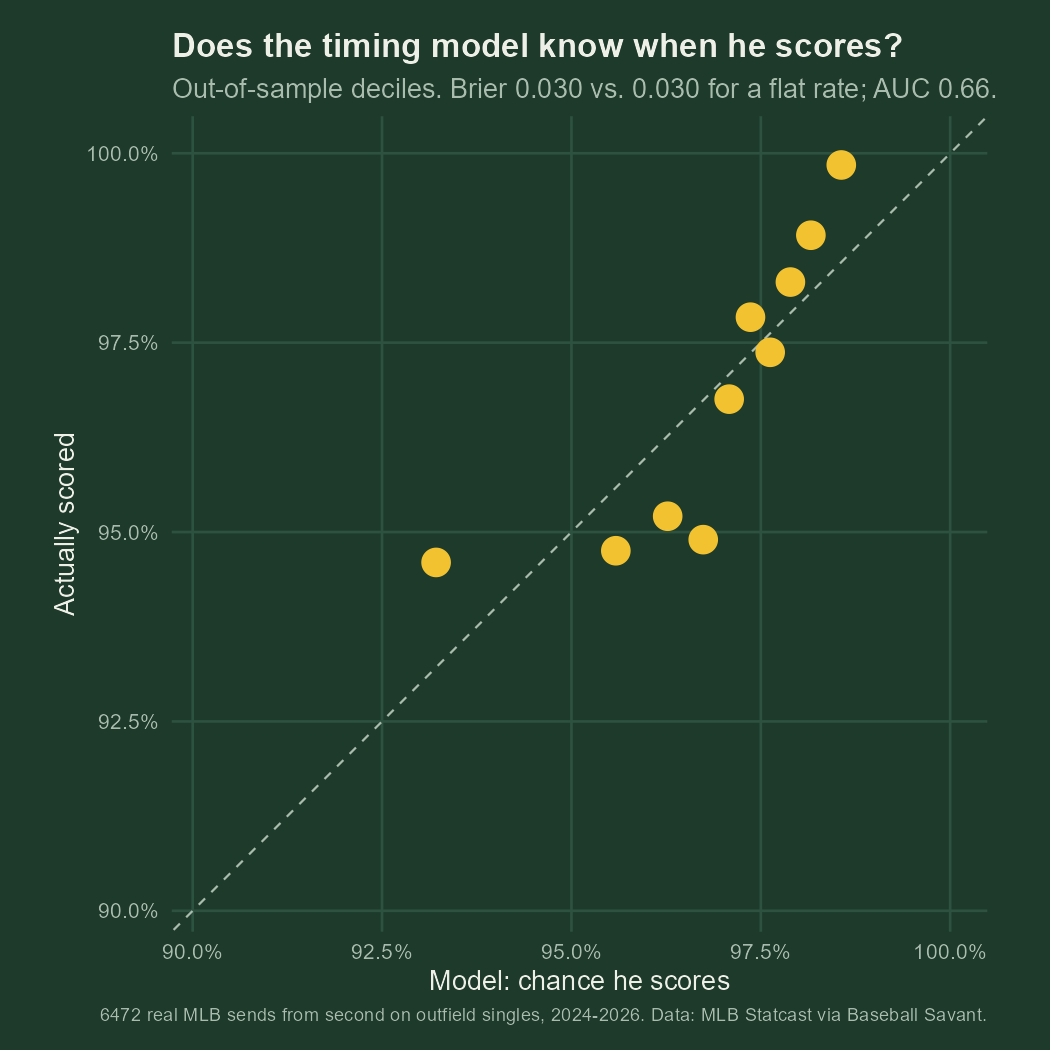
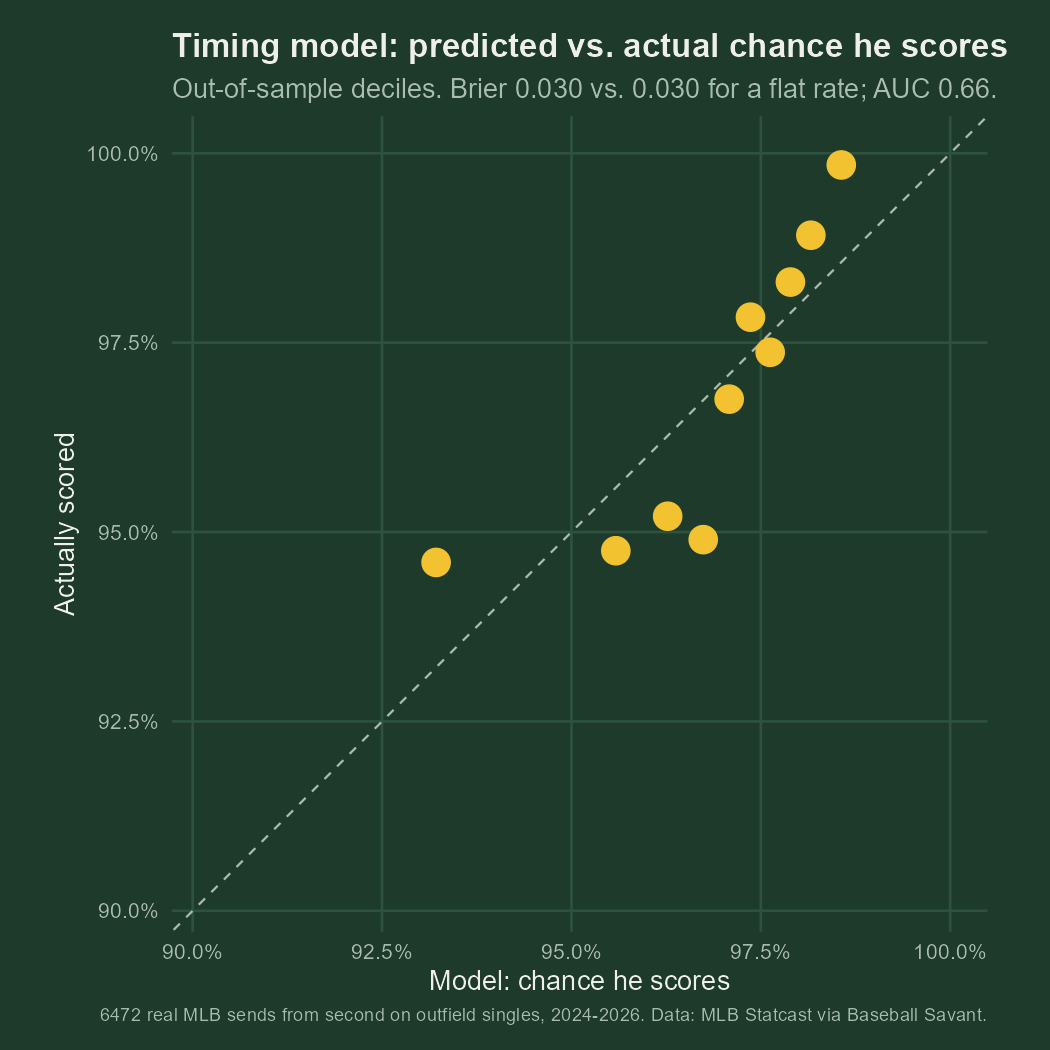
Regenerate charts with the new titles; match the two-out breakeven to the chart (42%)

Changed region(s): [[0.1524, 0.0305, 0.9752, 0.061]]

diff --git a/CLAUDE.md b/CLAUDE.md
@@ -103,7 +103,7 @@ Results from the full run on Oct 23 2026 (2024 to 2026, postseason through Oct 1
 - 559,650 PAs, 7,413 games, 9,094 candidates. Feed labels: 6,323 safe, 205 out, 2,524 held, 20 error, 19 unclear, 3 out elsewhere. 6,472 sends with features (16 imputed sprint speeds, 280 imputed arms). Pool: 1,704 plays (all 204 outs and 1,500 safes, 27 from the postseason), 1,703 with a clip.
 - Calibration: `logit P = 2.84 (SE 0.10) + 0.516 (SE 0.07) * margin`. 5-fold CV: Brier 0.0304 against 0.0305 for a flat rate, log loss 0.136 against 0.140, AUC 0.664. The hand-set physics ranks plays the same (AUC 0.665) but is badly calibrated (Brier 0.073).
 - Pieces of the margin (`model_terms.csv`): runner time -1.46 per second (z -6.0) and ball-to-fielder time +0.65 per second (z +4.5) carry the signal. Throw time from arm and distance doesn't (z 0.7) once coaches have filtered whom to send. Two outs -0.45 (z -2.9): two-out sends are riskier.
-- Coaches vs. breakeven (`coach_decisions.csv`): with 0 outs they send 48%, sends score 97.6%, breakeven 74%; 1 out, 62%, 96.7%, 62%; 2 outs, 94%, 96.7%, 43%.
+- Coaches vs. breakeven (`coach_decisions.csv`): with 0 outs they send 48%, sends score 97.6%, breakeven 74%; 1 out, 62%, 96.7%, 62%; 2 outs, 94%, 96.7%, 42%.
 - Every pool play's P(safe) falls between 0.95 and 0.98, above every breakeven. That's why the reveal adds the risk ranking (`META.send_p_quantiles`, the 0th to 100th percentiles of P(safe) over all 6,472 sends).
 
 ## Play data schema (`data/plays.js`)

diff --git a/README.md b/README.md
@@ -28,7 +28,7 @@ From 8,982 real decisions in 2024 to 2026 (runner on second, third base open, si
 
 ![Coaches vs. breakeven](pipeline/out/coaches_vs_breakeven.png)
 
-Third base coaches only send near-sure things. With nobody out they send 48% of the time, and those sends score 97.6%, against a breakeven of 74%. With two outs they send 94% of the time and score 96.7%, against a breakeven of 43%. When sends clear breakeven by that much, coaches are holding runners who would usually have scored.
+Third base coaches only send near-sure things. With nobody out they send 48% of the time, and those sends score 97.6%, against a breakeven of 74%. With two outs they send 94% of the time and score 96.7%, against a breakeven of 42%. When sends clear breakeven by that much, coaches are holding runners who would usually have scored.
 
 In a logistic regression on the pieces of the timing model, two things separate the 3% of sends thrown out at home: the runner's time to the plate and how fast the ball reached the outfielder. The outfielder's arm strength and throw distance don't, once coaches have already decided whom to send. Two-out sends are riskier.
 
